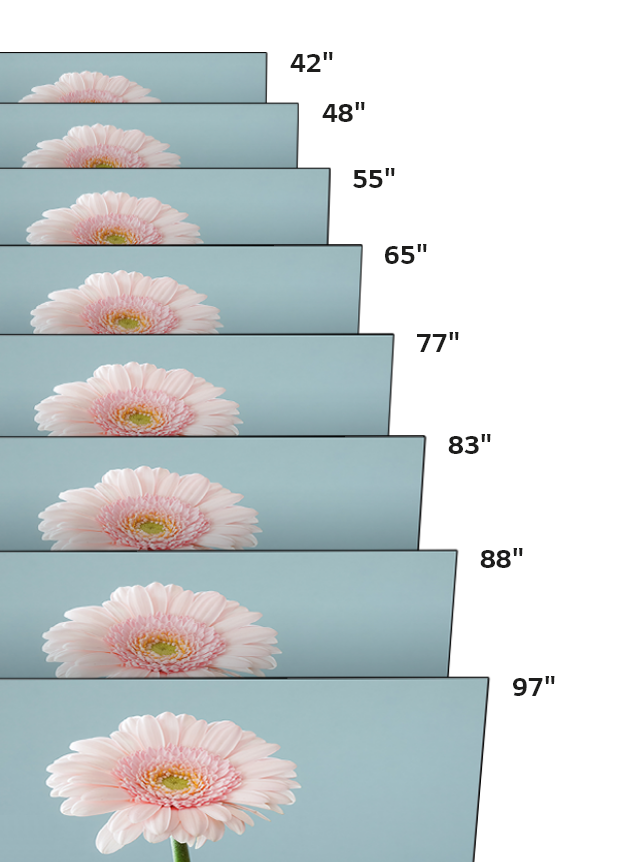
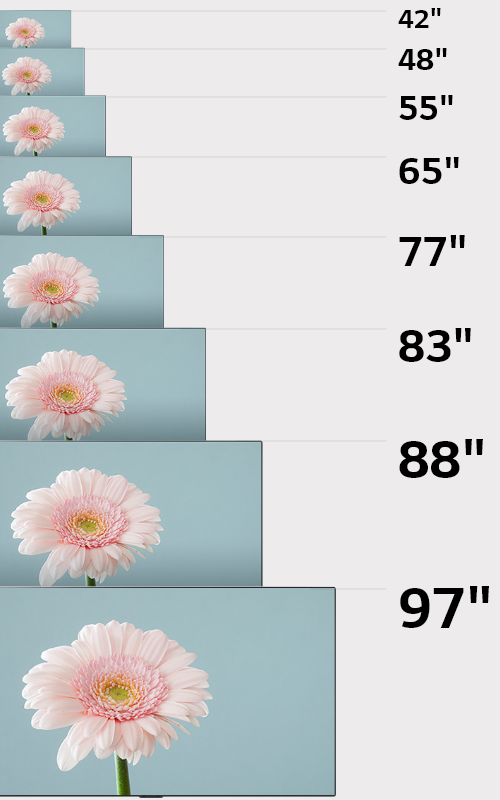
fdgdfgfdg

diff --git a/resources/css/contents.css b/resources/css/contents.css
@@ -90,8 +90,8 @@ section {position:relative;background:#fff;}
 .sce01_1 .visual_area .video video {position:absolute;left:50%;top:50%;min-width:100%;min-height:100%;width:auto !important;height:auto;transform:translate(-50%,-50%);}
 
 .sce01_2 {padding:35px 0 75px 0;background:#000;z-index:4}
-.c01_1 {height:calc((100vw - 60px) * 2.21);max-height:780px;background:#fff;}
-.c01_1 .img {position:absolute;left:0;bottom:0;width:100%;}
+.c01_1 {height:calc((100vw - 60px) * 2.3);max-height:820px;background:#edebeb;}
+.c01_1 .img {position:absolute;left:40px;bottom:30px;width:calc(100% - 55px);}
 .c01_2 {height:700px;max-height:inherit;padding-top:445px;background:#000 url("../images/img_c01_2.jpg") center top/100% no-repeat;color:#fff;}
 .c01_2 .txt .text {color:#ccc;}
 
